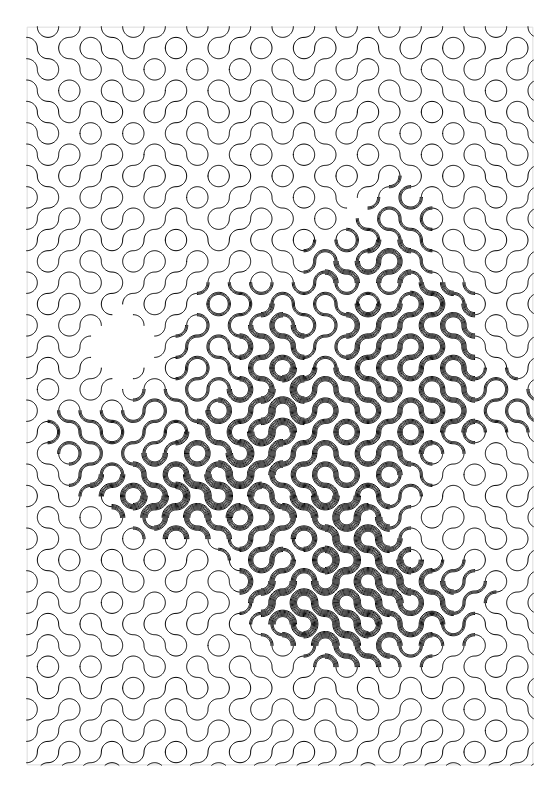
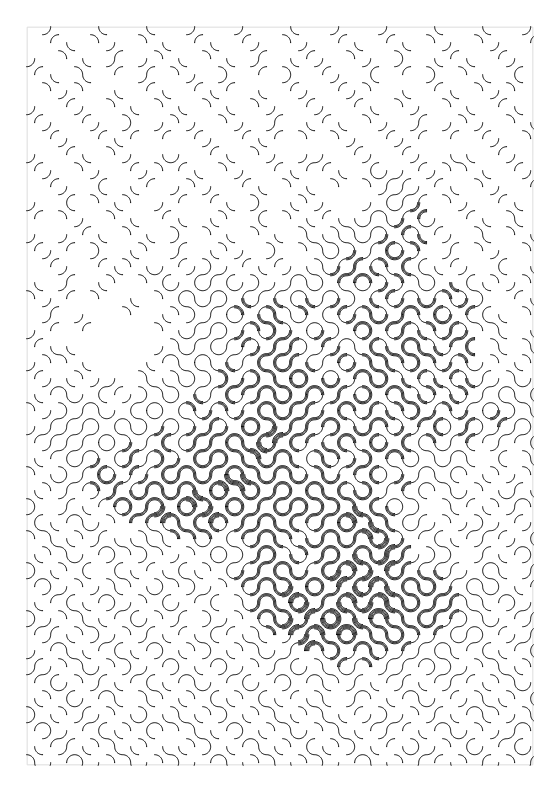
Redraw the README's truchet picture and settle the brief row

Changed region(s): [[0.0304, 0.0303, 0.9714, 0.9697], [0.9411, 0.0303, 0.9714, 0.0606]]

diff --git a/docs/BRIEF.md b/docs/BRIEF.md
@@ -385,4 +385,4 @@ Milestone 2 was completed in Python and then ported to Rust on 2026-10-12 under 
 | Lint thresholds | Taste defaults, set on 2026-10-15 by running all eighteen styles at their defaults on the still life and the scene: `overdraw` when cells passed three or more times exceed 5 % of a layer's inked cells (pens are checked one at a time, since inks mix where pens cross); `specks` when at least 10 paths, and 1 % of the paths, are shorter than their pen width, in a drawing where dots are under half the paths; `empty` under 0.1 % of the drawing area inked; `dark` when the drawing inks under 35 % of the cells where the tone map holds 0.75 ink or more, those cells being at least 1 % of the map, and its patch aims for 50 %; `lifts` over half the plot time; `travel` over 30 %; `vertices` when over half of a layer's segments, at least 1000, are under an eighth of the pen width. Patch values round to the setting's 0.1 step and stay within its schema's range | Two passes are normal where hatching crosses and fill rings meet: default hatch passed 14 to 20 % of its ink twice and ink 24 %, but at most 0.2 % three times. The only drawing past 5 % at three passes was `contours` on the scene, where steep tone stacks the levels ten deep (27 %); the next highest was `mesh` at 1.7 %. At the defaults the lint then says what is true of the styles: the dot styles and the Voronoi strokes lift the pen for 50 to 95 % of the plot time; grid, dither, circles, flow, contours and the Voronoi styles cover 2 to 32 % of the darkest parts, as "Tone matching" found for grid; and `ink` leaves 32 specks on the still life, which is not line art. Hatch, waves, spiral and hilbert find nothing on either image, nor do sketch and mesh on the still life. The `dark` patch lowers a spacing in proportion, never below the pen, or raises a point count or stroke budget; at the defaults it can make a plot several times longer, which the stats show before a run is plotted. |
 | Budget solver | Built on 2026-10-15 under [the budget solver spec](superpowers/specs/2026-10-15-budget-solver-design.md). `Session::fit(metric, target)` reruns the style with its density setting changed until the drawing's estimated plot time in minutes, path count, pen-down metres or placed dots (`dots` only for a style with a point stage) is within 2 % of the target, at most eight trials, and keeps the trial nearest the target in ratio. A stage marks the setting in its schema with `"x-density": "inverse"` or `"direct"`; every listed style but `ink` has exactly one, which a registry test checks: the spacing of `grid`, `halftone`, `hatch`, `waves`, `spiral`, `dither` and `circles`, `voronoi.count`, `sketch.max_lines`, `hilbert.cell_mm`, `contours.levels` and `flow.min_spacing_mm`. The search works on the logarithms of the value and the metric: it starts at the current value, steps along the secant (slope clamped to 0.25 to 4, else 1) until the target is bracketed, then uses the Illinois variant of regula falsi (Dowell and Jarratt, *BIT* 11(2), 1971), bisecting where false position is undefined or a sample broke monotonicity, and halving back towards a sample that fell off a cliff while bracketing. Values round to whole numbers or to 0.001. A fit is driven like a run (the `Job` trait), its trials keep the tone stages cached, write a private slot, stream their frames prefixed `trial n of 8` and end each with a `fit` frame; it leaves the settings alone, and each host applies the chosen value with `update`. The CLI takes `--fit-minutes`, `--fit-paths`, `--fit-metres` or `--fit-dots`, MCP gains a `fit` tool, and the GUI a target, a unit and a Fit to target button under the stats, with a tour step. Each front end's help says that the time estimate leaves out acceleration, so a time target runs optimistic on styles of short strokes or dots | The owner asked for an optimize button that makes the drawing match the image within a line count, and a budget is the part with one clear number to hit, which avoids the tone search's failure ("Tone matching"). Starting from the current value costs nothing when that run is cached and is usually near the answer, while the bracket ends of the schema range can be slow (50,000 Voronoi points, 0.2 mm spacing on A3). The metrics follow powers of the density settings, so on log scales false position lands in two to five trials on the test images; the cliff rule exists because `hatch` drops its lines once the spacing is under about half a tone-map pixel, which a 64-pixel test map showed. Counting trials, never time, keeps the native and browser builds on the same steps, and a test pins one fit's samples in both. Leaving the settings to the host keeps the fit off the session, which a host drives from another thread, and the redraw after `update` is all cache hits. The nearest trial in ratio, rather than the nearest under the target, keeps one rule for an "about" target such as dots and a budget such as minutes; 2 % is inside the error of the time estimate. |
 | Machines outside the GUI | Added on 2026-10-15 under [the machines for the CLI and MCP spec](superpowers/specs/2026-10-15-machines-cli-mcp-design.md), which the MCP spec had deferred. The Python binding and `Session` gain `set_machine`, `machine`, `gcode(layer)` and `export_gcode(directory, overwrite)`, which names the files `plot_{n}_{pen}.gcode` as the GUI does. `plotline run` takes `--machine FILE`, a machine or a preset that has one, and `--gcode DIR`; MCP gains a `set_machine` tool, `export` a `gcode` format that writes into a folder, and `get_session` the machine. On the CLI and in `set_machine` a machine makes the page its drawable area, keeping the margin and fit, as picking one in the GUI does; `--width` and `--height` still override it. `--gcode` without a machine is refused before the run. Python's `set_machine`, and `load_preset` of a preset with a machine, copy the engine's speeds into `Session.speeds` | A machine is set once and changes rarely, so a tool of its own, like `set_page` and `set_pens`, reads better than a field on another tool, and one more tool is a small cost. Taking the page from the machine means a first export fits without the user doing the arithmetic, which is what the GUI already does. Accepting a preset as the machine file lets the GUI's saved preset serve the CLI, since the GUI has no machine-only export. One folder per export keeps one file per pen together, and the GUI's names mean the files look the same whichever front end wrote them. The speeds fix closes a gap where `stats()` pushed the old speeds over a preset's machine. |
-| Truchet style | Built on 2026-10-15 under [the Truchet spec](superpowers/specs/2026-10-15-truchet-style-design.md): tone, split, `truchet`, order. Square tiles each hold two quarter-circle arcs about opposite corners, in one of two turns drawn at random for every tile. Tone sets how many arcs nest about each corner: a tile wants `n` arcs, its mean ink (16 samples) times `2 m_max + 1` plus the rounding error passed on to it, and holds none when `n` is under 0.5, else the odd number nearest `n`. The rest, `n` less the count, goes on to the tiles after it by the Floyd and Steinberg weights (7/16 to the next in the row, 3/16, 5/16 and 1/16 below); error that leaves the grid is dropped, and a tile off the map neither takes nor passes it on. Arcs of radius `s / 2 + j g` meet every side at the same points, so neighbours with equal counts join all their arcs and, where the counts differ, the extra arcs end at the side. `m_max` is the most nests that keep the outermost arcs of the two corners a spacing apart along the diagonal. The arcs are the edges of a graph on integer side-point ids, `graph::trails` makes the curves, and each is one path cut to the tone map's rect. Lane `i` of `n` turns its grid by `90 i / n` degrees about the map's centre and draws its own turns. A tile with too little ink is empty, with no lift rule. Settings: `tile_mm` 6, `spacing_mm` 0.4 (the density setting) and `seed` 0, and the tone gamma stays 1. Sources: S. Truchet, 1704, for the tiles; C. S. Smith and P. Boucher, *Leonardo* 20(4), 1987, for the arc variant; R. W. Floyd and L. Steinberg, *Proc. SID* 17(2), 1976, for the diffusion; C. Carlson, *Bridges* 2018, was read and not followed | One arc to a path would be thousands of pen lifts, and on a pen-fitted 3D printer every lift is a Z move. Path ordering does not join paths whose ends only touch, so the joining is done here, on integer ids rather than float matches. Every tile draws its turn, ink or not, so a change of tone never reshuffles the pattern. A square grid repeats every quarter turn, so the lanes' grids are spread over that, as `hatch` spreads its levels over the half turn. Carlson's winged tiles complete their motif by painting smaller tiles over larger ones, which a pen cannot do. The count rule was compared on the still life with a 0.3 mm pen: a gamma of 1.9 with the nearest odd counts, as first built, gave about two visible levels, the lights at one arc and every darker tone at five or seven, so the balls, the cube and their shadows merged into one dark mass. A gamma of 1.0 alone left a blank band where the floor is lightest and still few levels, and diffusion at 1.9 kept the dark mass. A gamma of 1.0 with diffusion read clearest, and tiles of 6 mm showed more of the shapes than 8 mm, so that is the rule. The cost is pen lifts: a 0 beside a 1 breaks a curve, so the still life at the defaults is about 1,160 paths against 459 without diffusion at 8 mm and 1.9. Spacing was tried from 0.3 to 0.5 mm: at 0.3 mm the arcs fuse into thick bands and at 0.35 mm only 0.05 mm stays clear, while 0.4 mm leaves 0.1 mm. At 6 mm and 0.4 mm the plot lint at the defaults on the still life reports only the `dark` info (the darkest areas cover about 30 % of the paper) with a 0.3 mm pen, and with a 0.5 mm pen also a `close_lines` warning (marks 0.4 mm apart under a 0.5 mm pen) whose patch sets the spacing to 0.5. |
+| Truchet style | Built on 2026-10-15 under [the Truchet spec](superpowers/specs/2026-10-15-truchet-style-design.md): tone, split, `truchet`, order. Square tiles each hold two quarter-circle arcs about opposite corners, in one of two turns drawn at random for every tile. Tone sets how many arcs nest about each corner: a tile wants `n` arcs, its mean ink (16 samples) times `2 m_max + 1` plus the rounding error passed on to it, and holds none when `n` is under 0.5, else the odd number nearest `n`. The rest, `n` less the count, goes on to the tiles after it by the Floyd and Steinberg weights (7/16 to the next in the row, 3/16, 5/16 and 1/16 below); error that leaves the grid is dropped, and a tile off the map neither takes nor passes it on. Arcs of radius `s / 2 + j g` meet every side at the same points, so neighbours with equal counts join all their arcs and, where the counts differ, the extra arcs end at the side. `m_max` is the most nests that keep the outermost arcs of the two corners a spacing apart along the diagonal. The arcs are the edges of a graph on integer side-point ids, `graph::trails` makes the curves, and each is one path cut to the tone map's rect. Lane `i` of `n` turns its grid by `90 i / n` degrees about the map's centre and draws its own turns. A tile with too little ink is empty, with no lift rule. Settings: `tile_mm` 6, `spacing_mm` 0.4 (the density setting) and `seed` 0, and the tone gamma stays 1. Sources: S. Truchet, 1704, for the tiles; C. S. Smith and P. Boucher, *Leonardo* 20(4), 1987, for the arc variant; R. W. Floyd and L. Steinberg, *Proc. SID* 17(2), 1976, for the diffusion; C. Carlson, *Bridges* 2018, was read and not followed | One arc to a path would be thousands of pen lifts, and on a pen-fitted 3D printer every lift is a Z move. Path ordering does not join paths whose ends only touch, so the joining is done here, on integer ids rather than float matches. Every tile draws its turn, ink or not, so a change of tone never reshuffles the pattern. A square grid repeats every quarter turn, so the lanes' grids are spread over that, as `hatch` spreads its levels over the half turn. Carlson's winged tiles complete their motif by painting smaller tiles over larger ones, which a pen cannot do. The count rule was compared on the still life with a 0.3 mm pen: a gamma of 1.9 with the nearest odd counts, as first built, gave about two visible levels, the lights at one arc and every darker tone at five or seven, so the balls, the cube and their shadows merged into one dark mass. A gamma of 1.0 alone left a blank band where the floor is lightest and still few levels, and diffusion at 1.9 kept the dark mass. A gamma of 1.0 with diffusion read clearest, and tiles of 6 mm showed more of the shapes than 8 mm, so that is the rule. The cost is pen lifts: a 0 beside a 1 breaks a curve, so the still life at the defaults is about 1,160 paths against 459 without diffusion at 8 mm and 1.9. Spacing was tried from 0.3 to 0.5 mm: at 0.3 mm the arcs fuse into thick bands and at 0.35 mm only 0.05 mm stays clear, while 0.4 mm leaves 0.1 mm. At 6 mm and 0.4 mm the plot lint at the defaults on the still life reports only the `dark` info with a 0.3 mm pen (the darkest areas cover 30 % of the paper), and only a `close_lines` warning with a 0.5 mm pen (marks 0.4 mm apart under a 0.5 mm pen) whose patch sets the spacing to 0.5. |
